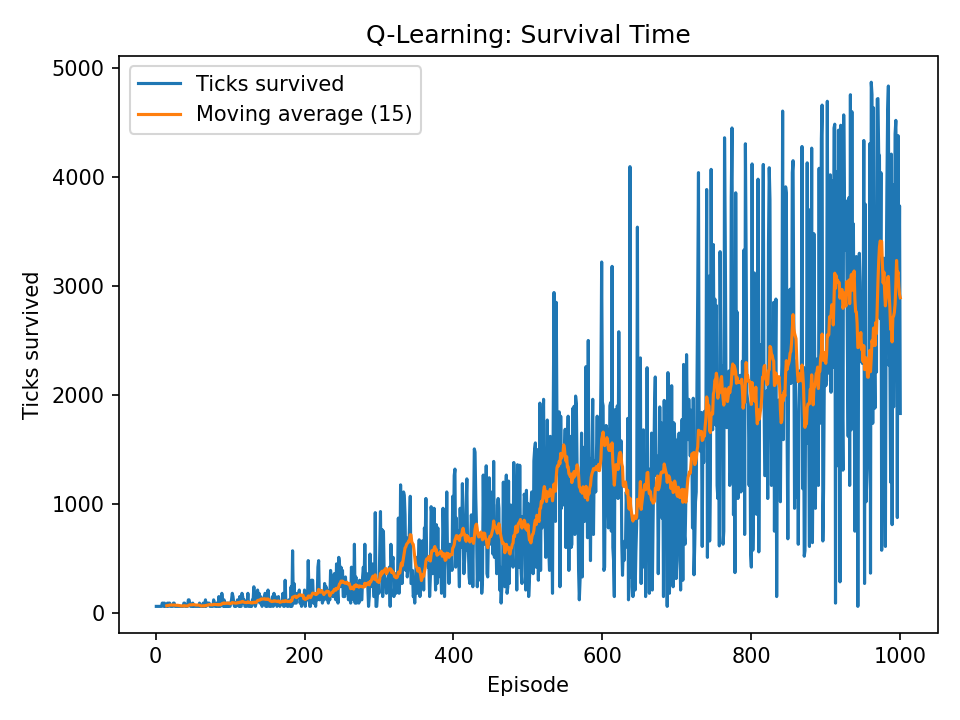
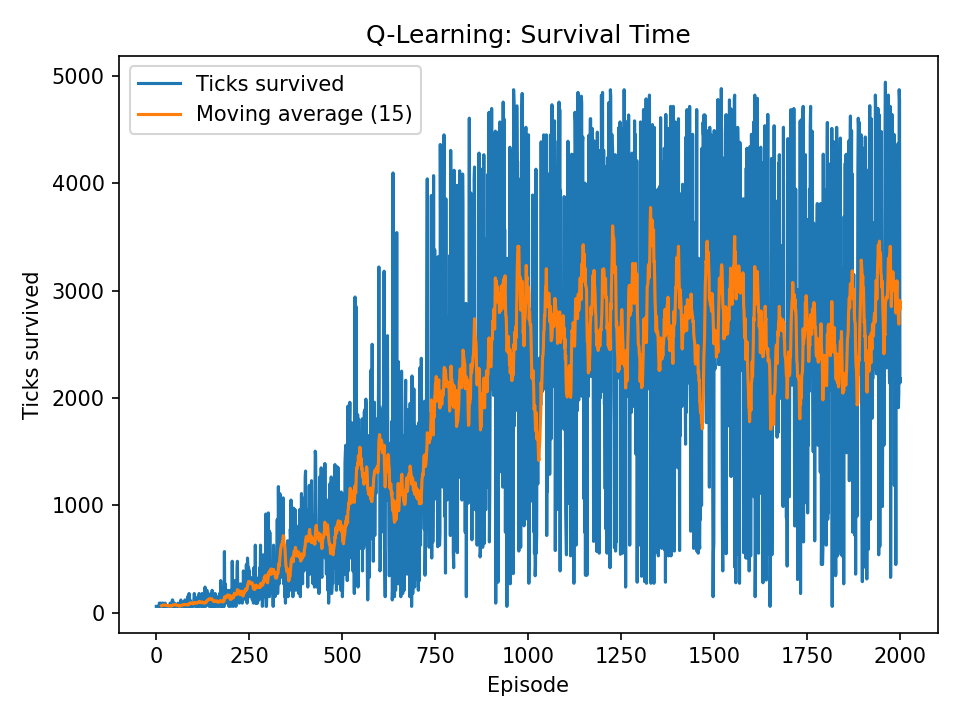
added damage_rate instead of damage_total for better learning visualisation.

diff --git a/q_learning.py b/q_learning.py
@@ -17,8 +17,8 @@ def choose_action(state: int, Q: np.ndarray, epsilon:float, n_actions: int, rng:
     
 # Main Q-learning training loop
 def train_q_learning(
-    num_episodes: int = 1000,
-    max_steps_per_episode: int = 5000,
+    num_episodes: int = 2000,
+    max_steps_per_episode: int = 10000,
     alpha: float = 0.1, # learning rate
     gamma: float = 0.99, # discount factor
     epsilon_start: float = 1.0, # initial exploration rate
@@ -41,6 +41,8 @@ def train_q_learning(
     episode_damage_gaze = []
     episode_total_damage = []
     episode_died = []
+    episode_damage_rate = []
+
 
     
     for episode in range(num_episodes):
@@ -102,7 +104,12 @@ def train_q_learning(
         total_dmg = dmg_magic + dmg_rise + dmg_slam + dmg_gaze
         episode_total_damage.append(total_dmg)
 
+        # Damage rate: damage per tick survived
+        damage_rate = total_dmg / max(1, survival_ticks)
+        episode_damage_rate.append(damage_rate)
+
         episode_died.append(int(died))
+
 
         
         # FIX USING A STATIC VALUE
@@ -124,6 +131,7 @@ def train_q_learning(
         "damage_slam": episode_damage_slam,
         "damage_gaze": episode_damage_gaze,
         "damage_total": episode_total_damage,
+        "damage_rate": episode_damage_rate,
         "died": episode_died,
     }
     return Q, logs
@@ -195,7 +203,7 @@ if __name__ == "__main__":
 
     plot_metric_curve(logs["reward"], "Q-Learning: Episode Reward", "Total reward", window=15, filename="reward_curve.png")
     plot_metric_curve(logs["survival_ticks"], "Q-Learning: Survival Time", "Ticks survived", window=15, filename="survival_curve.png")
-    plot_metric_curve(logs["damage_total"], "Q-Learning: Total Damage Taken", "Damage taken", window=15, filename="damage_curve.png")
+    plot_metric_curve(logs["damage_rate"], "Q-Learning: Damage Rate", "Damage per tick", window=15, filename="damage_rate_curve.png")
 
     # Test the learned policy
     print("\nRunning greedy survival policy after training:\n")
